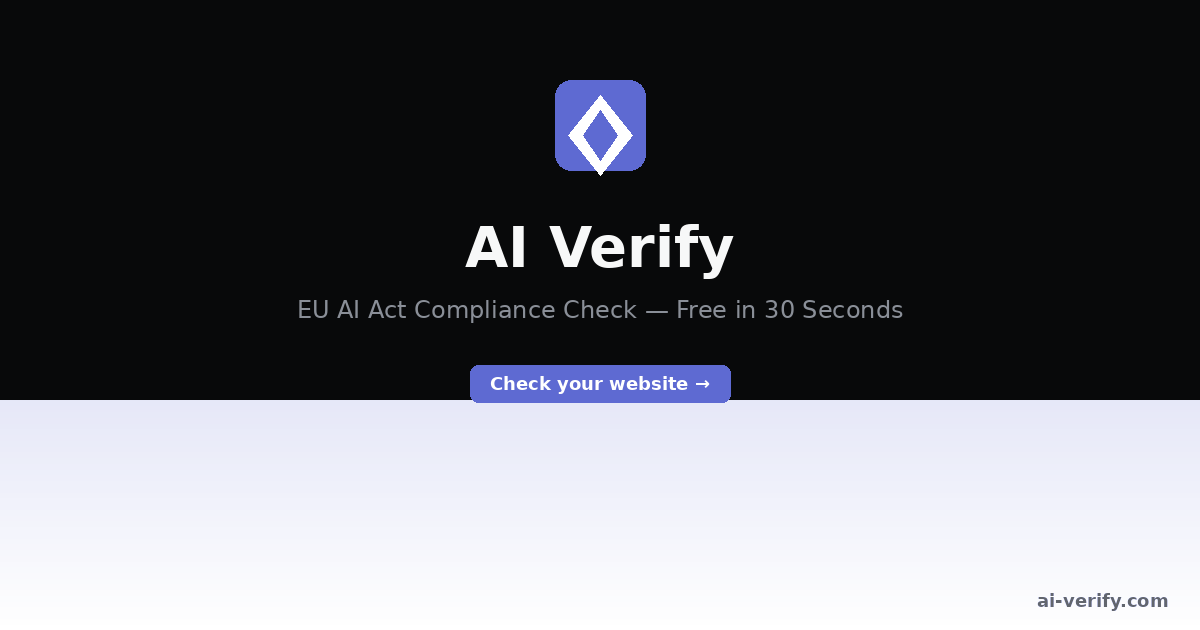
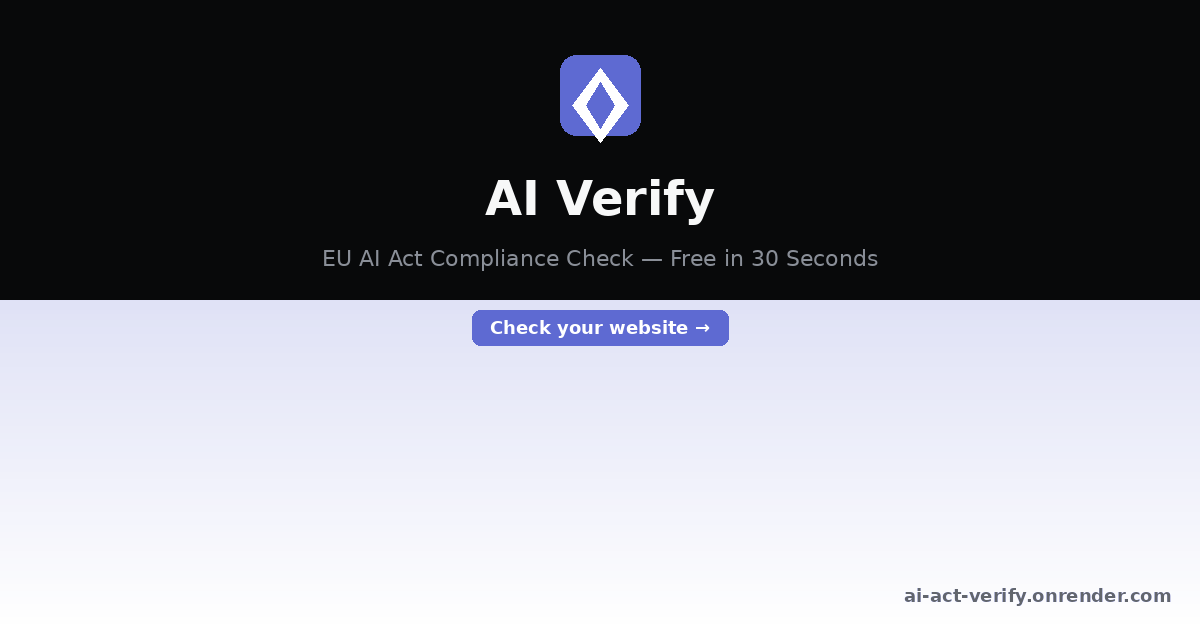
Fix OG image URL, reorder page: CTA below FAQ (Pricing→Testimonials→FAQ→CTA)

Changed region(s): [[0.0, 0.0603, 1.0, 0.6635], [0.74, 0.9349, 0.9867, 0.9651]]

diff --git a/docs/index.html b/docs/index.html
@@ -4,7 +4,7 @@
 <meta charset="UTF-8">
 <meta name="viewport" content="width=device-width, initial-scale=1.0">
 <title>AI Verify — Your EU AI Act Compliance Check</title>
-<link rel="icon" type="image/svg+xml" href="favicon.svg">
+<link rel="icon" type="image/svg+xml" href="/static/favicon.svg">
 <meta property="og:title" content="AI Verify — EU AI Act Compliance Check">
 <meta property="og:description" content="Check your website for EU AI Act compliance in 30 seconds. Free. No technical knowledge required.">
 <meta property="og:image" content="https://ai-act-verify.onrender.com/static/og-image.png">
@@ -478,15 +478,6 @@ footer { border-top: 1px solid var(--border-subtle); padding: 48px 24px; }
   </div>
 </section>
 
-<!-- CTA -->
-<section class="cta-section">
-  <div class="section-inner">
-    <h2>Check for Free Now</h2>
-    <p>Find out if your website is EU AI Act compliant in under one minute. No strings attached, no cost.</p>
-    <a href="/submit-page" class="btn-primary-lg">→ Check for free now</a>
-  </div>
-</section>
-
 <!-- FAQ -->
 <section id="faq" class="section">
   <div class="section-inner">
@@ -539,6 +530,15 @@ footer { border-top: 1px solid var(--border-subtle); padding: 48px 24px; }
         </div>
       </div>
     </div>
+  </div>
+</section>
+
+<!-- CTA -->
+<section class="cta-section">
+  <div class="section-inner">
+    <h2>Check for Free Now</h2>
+    <p>Find out if your website is EU AI Act compliant in under one minute. No strings attached, no cost.</p>
+    <a href="/submit-page" class="btn-primary-lg">→ Check for free now</a>
   </div>
 </section>
 

diff --git a/static/index.html b/static/index.html
@@ -478,15 +478,6 @@ footer { border-top: 1px solid var(--border-subtle); padding: 48px 24px; }
   </div>
 </section>
 
-<!-- CTA -->
-<section class="cta-section">
-  <div class="section-inner">
-    <h2>Check for Free Now</h2>
-    <p>Find out if your website is EU AI Act compliant in under one minute. No strings attached, no cost.</p>
-    <a href="/submit-page" class="btn-primary-lg">→ Check for free now</a>
-  </div>
-</section>
-
 <!-- FAQ -->
 <section id="faq" class="section">
   <div class="section-inner">
@@ -539,6 +530,15 @@ footer { border-top: 1px solid var(--border-subtle); padding: 48px 24px; }
         </div>
       </div>
     </div>
+  </div>
+</section>
+
+<!-- CTA -->
+<section class="cta-section">
+  <div class="section-inner">
+    <h2>Check for Free Now</h2>
+    <p>Find out if your website is EU AI Act compliant in under one minute. No strings attached, no cost.</p>
+    <a href="/submit-page" class="btn-primary-lg">→ Check for free now</a>
   </div>
 </section>
 